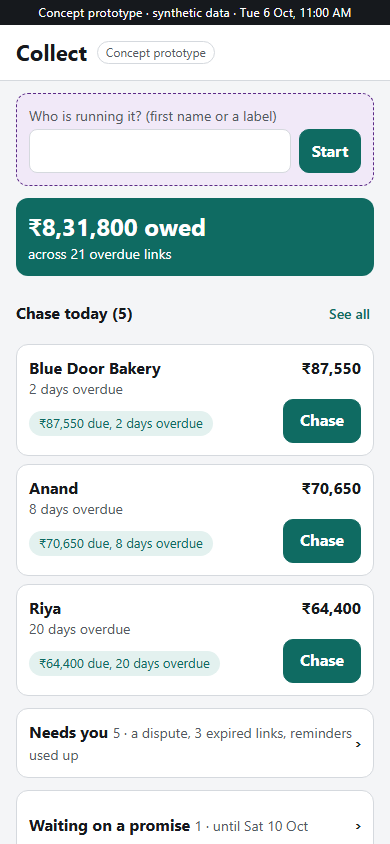
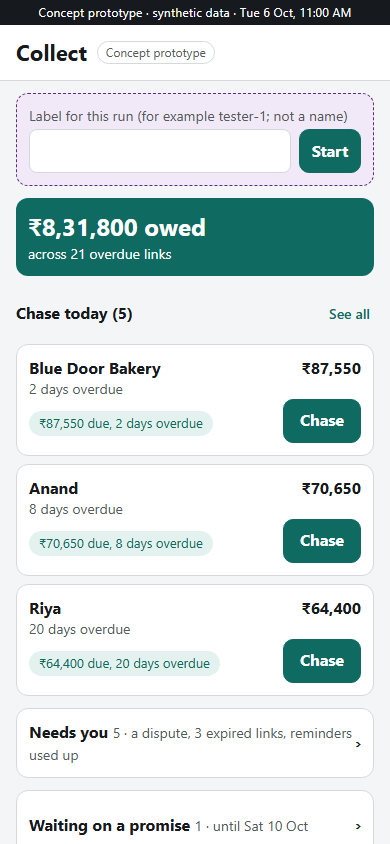
P3 fix: timed-run label asks for a label, not a name
The label is written to timings.csv, which is committed.
Refs: G3 step 1

Changed region(s): [[0.0615, 0.1232, 0.8923, 0.154]]

diff --git a/src/ui/screens/Home.tsx b/src/ui/screens/Home.tsx
@@ -52,7 +52,7 @@ export function Home() {
                 </p>
               ) : (
                 <>
-                  <label htmlFor="runner">Who is running it? (first name or a label)</label>
+                  <label htmlFor="runner">Label for this run (for example tester-1; not a name)</label>
                   <div className="row">
                     <input id="runner" value={runner} onChange={(e) => setRunner(e.target.value)} autoComplete="off" />
                     <button type="button" className="btn" onClick={start}>

diff --git a/tests/e2e/happy-path.spec.ts b/tests/e2e/happy-path.spec.ts
@@ -30,7 +30,7 @@ test('happy path: Home -> Chase -> simulated send -> Sent, in 8 taps or fewer', 
   await page.screenshot({ path: `${SHOTS}/s1-home.png` });
 
   // Timed run: Start, then the designed path.
-  await page.getByLabel(/Who is running it/).fill('e2e');
+  await page.getByLabel(/Label for this run/).fill('e2e');
   await page.getByRole('button', { name: 'Start' }).click();
   await expect(page.getByText('Timed run in progress.')).toBeVisible();
 

diff --git a/README.md b/README.md
@@ -18,7 +18,7 @@ Then open http://localhost:5173/ . Add `?demo=1` to reset the demo data.
 1. Connect the computer and the phone to the same Wi-Fi.
 2. On the computer, in this folder, run `npm run lan`.
 3. It prints a line such as `http://192.168.1.23:5173/`. Type that address into the phone's browser.
-4. To time yourself: on the phone, open Settings, turn on **Timed run**, go back to Home, type a label, tap **Start**, and chase the top card through to the Sent screen. The Sent screen shows the time and the tap count (practice data).
+4. To time yourself: on the phone, open Settings, turn on **Timed run**, go back to Home, type a label such as `tester-1` (not a name: it goes into `timings.csv`), tap **Start**, and chase the top card through to the Sent screen. The Sent screen shows the time and the tap count (practice data).
 5. To export the times: open the same address with `?debug=1` at the end (for example `http://192.168.1.23:5173/?debug=1`) and tap **Export timings.csv** on Home. Save the file as `docs/evidence/timings.csv`.
 
 Each timed run chases a card, so the next runner sees a different top card. To give every runner the same start, tap **Reset demo data** in Settings between runs (Timed run stays on).

diff --git a/docs/build-log.md b/docs/build-log.md
@@ -81,3 +81,11 @@ Append only. One entry per task (plan Appendix I1). Times IST.
 - Minutes: about 4
 - AI was wrong about: nothing failed here on the first run. I ran the LAN check on port 5174 because the browser pane's dev server held 5173, and stopped it afterwards.
 - Commit: see `git log` (P3: happy-path build)
+
+### 2026-10-07T01:57+05:30 | P3 fix (during G3) | run label no longer asks for a name
+- Did: the Timed run label on Home now reads "Label for this run (for example tester-1; not a name)"; README and the e2e selector updated.
+- Why: CLAUDE.md "No handles, usernames or real names anywhere", and the label is written into `timings.csv`, which goes into the repo (G3 step 1).
+- Checks: npm run check -> see commit; npm run e2e -> see commit
+- Minutes: 3
+- AI was wrong about: I wrote the first hint as "first name or a label", which invites testers' real names into a committed file.
+- Commit: see `git log`
